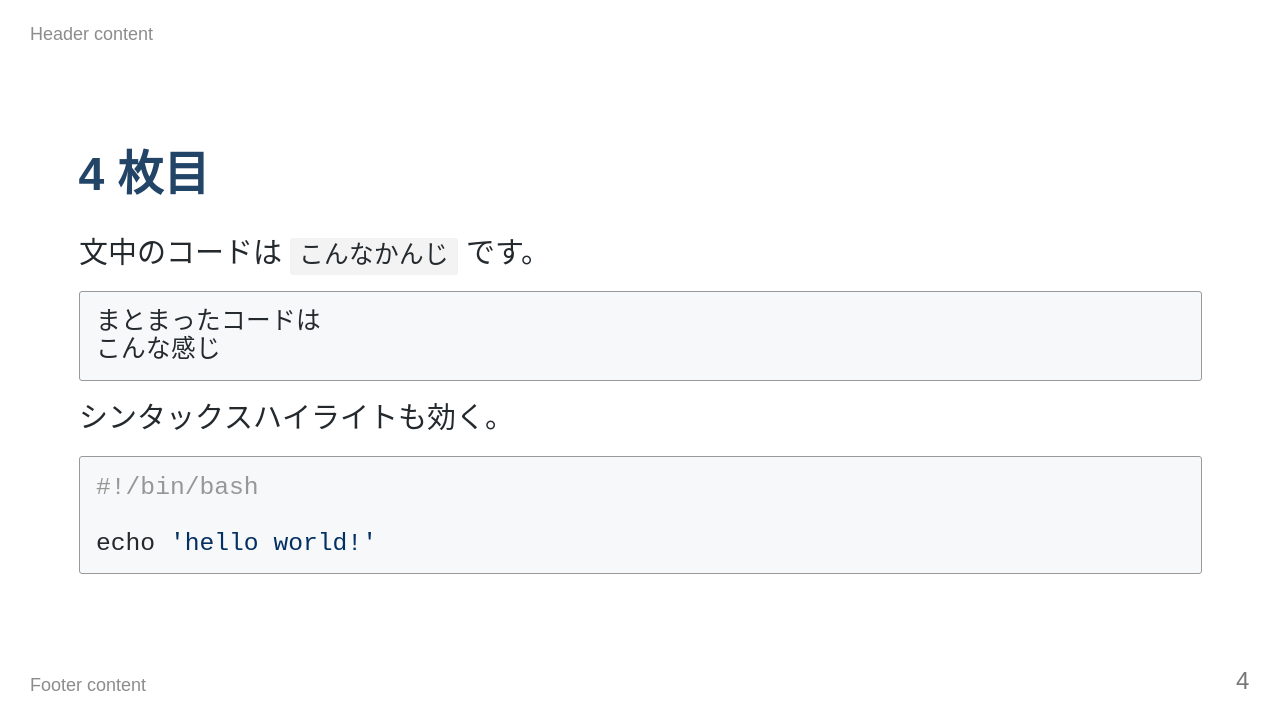
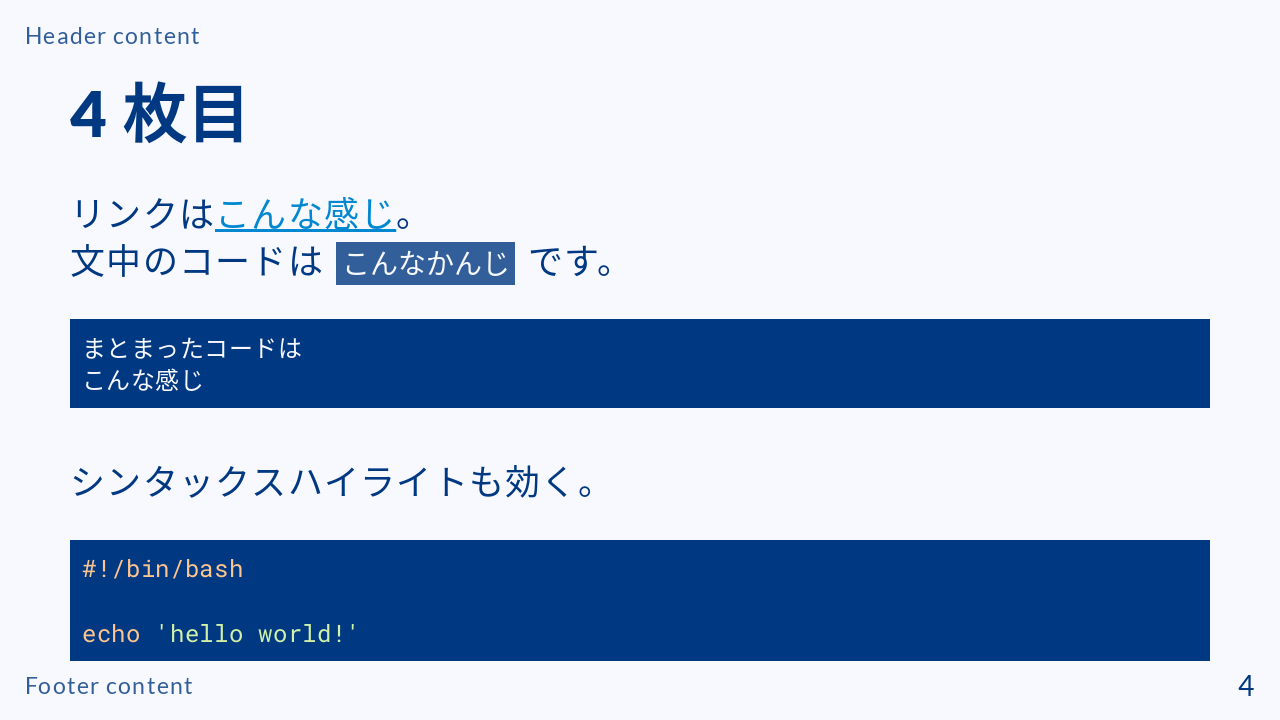
サンプルなどを追記しつつだいぶいい感じ

diff --git a/marp-themes/speee.scss b/marp-themes/speee.scss
@@ -10,7 +10,8 @@
  */
 
 $color-light: ghostwhite;
-$color-dark: #003981;
+$color-dark: #003981; // 濃い方のコーポレートカラー
+$color-lighter-dark: #005ea5; // 薄い方のコーポレートカラー
 $color-normal-highlight: #0288d1;
 $color-inverted-highlight: #81d4fa;
 
@@ -262,6 +263,7 @@ section {
 
   &.lead {
     @include color-scheme($color-dark, $color-light, $color-inverted-highlight);
+    background: linear-gradient(90deg, $color-dark, $color-lighter-dark);
 
     display: flex;
     flex-direction: column;

diff --git a/marp-themes/speee.css b/marp-themes/speee.css
@@ -232,6 +232,7 @@ section.lead {
   --color-foreground: ghostwhite;
   --color-dimmed: #c6d2e6;
   --color-highlight: #81d4fa;
+  background: linear-gradient(90deg, #003981, #005ea5);
   display: flex;
   flex-direction: column;
   flex-wrap: nowrap;

diff --git a/example/example.md b/example/example.md
@@ -43,6 +43,7 @@ _class: lead
 
 # 4 枚目
 
+リンクは[こんな感じ](https://google.com/)。
 文中のコードは `こんなかんじ` です。
 
 ```
